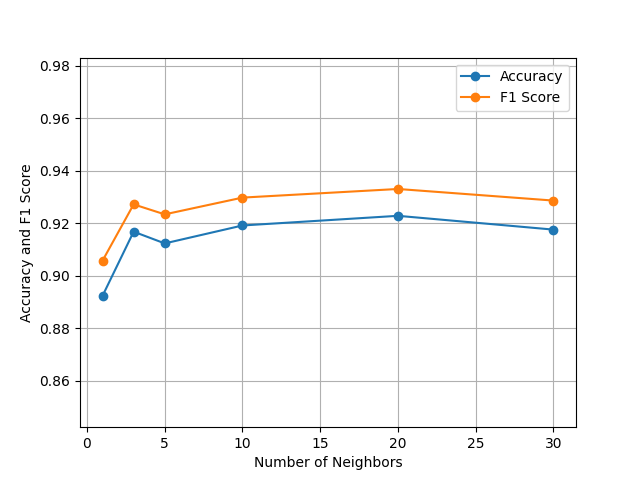
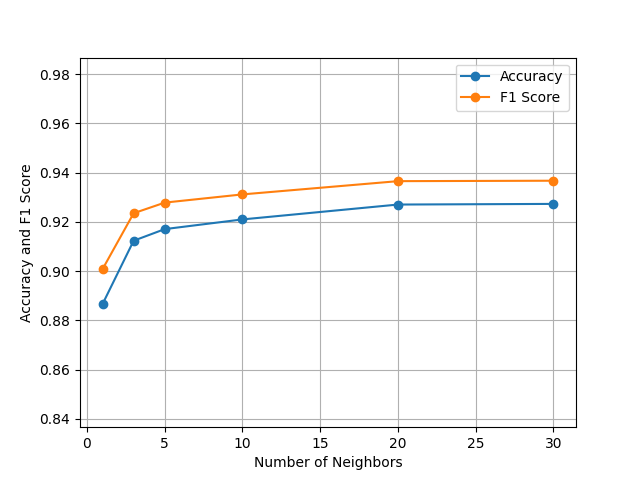
better mnist, knn fix

diff --git a/ozel/main_mnist.py b/ozel/main_mnist.py
@@ -42,6 +42,7 @@ def run_knn():
     df = pd.DataFrame(digits[0])
     df["y"] = digits[1]
     df.columns = df.columns.astype(str)
+    df = normalize_data(df)
 
     splitter = StratifiedKFold(k=10, class_column="y")
 
@@ -198,12 +199,13 @@ def run_nn():
     df["y"] = digits[1]
 
     models = [
-        NeuralNet(layers=[64, 100, 100, 100, 10], step_size=0.1, lambda_reg=0.1, epochs=30),
-        NeuralNet(layers=[64, 100, 100, 100, 100, 100, 10], step_size=0.1, lambda_reg=0.1, epochs=30),
-        NeuralNet(layers=[64, 100, 100, 100, 10], step_size=0.1, lambda_reg=0.5, epochs=30),
-        NeuralNet(layers=[64, 100, 100, 100, 10], step_size=0.1, lambda_reg=0.01, epochs=30),
-        NeuralNet(layers=[64, 100, 150, 100, 32, 10], step_size=0.1, lambda_reg=0.1, epochs=30),
-        NeuralNet(layers=[64, 200, 10], step_size=0.1, lambda_reg=0.1, epochs=30),
+        NeuralNet(layers=[64, 48, 10], step_size=0.1, lambda_reg=0.1, batch_size=50, epochs=50),
+        NeuralNet(layers=[64, 100, 10], step_size=0.1, lambda_reg=0.1, batch_size=50, epochs=50),
+        NeuralNet(layers=[64, 200, 10], step_size=0.1, lambda_reg=0.1, epochs=50),
+        NeuralNet(layers=[64, 100, 100, 10], step_size=0.1, lambda_reg=0.1, batch_size=50, epochs=50),
+        NeuralNet(layers=[64, 100, 100, 100, 100, 100, 10], step_size=0.1, lambda_reg=0.1, epochs=50),
+        NeuralNet(layers=[64, 100, 100, 10], step_size=0.1, lambda_reg=0.5, batch_size=50, epochs=50),
+        NeuralNet(layers=[64, 100, 100, 10], step_size=0.1, lambda_reg=0.9, batch_size=50, epochs=50),
     ]
 
     best_model = None
@@ -213,19 +215,22 @@ def run_nn():
     splitter = StratifiedKFold(k=10, class_column="y")
     accuracies = []
     f1_scores = []
+    best_losses = None
     t = ""
     print("NN for MNIST Dataset")
     for model in models:
         avg_accuracy = 0
         avg_f1_score = 0
-
+        
+        losses = [0 for _ in range(model.epochs)]
         for train_split, test_split in splitter.get_splits(df):
             X_train = train_split.drop(columns=["y"]).to_numpy()
             y_train = np.eye(10)[train_split["y"].to_list()]
             X_test = test_split.drop(columns=["y"]).to_numpy()
             y_test = np.eye(10)[test_split["y"].to_list()]
 
-            model.refit(X_train, y_train)
+            epoch_loss = model.refit(X_train, y_train)
+            losses = [l + e for l, e in zip(losses, epoch_loss)]
             predictions = model.predict(X_test)
             predictions = [z.reshape(-1) for z in predictions]
             pred_labels = np.argmax(predictions, axis=1)
@@ -234,6 +239,7 @@ def run_nn():
             avg_accuracy += accuracy(pred_labels, actual_labels)
             avg_f1_score += f1(pred_labels, actual_labels)
 
+        losses = [l / 10 for l in losses]
         avg_accuracy /= 10
         avg_f1_score /= 10
         print(f"\tParams: {model.model_str()}")
@@ -247,6 +253,7 @@ def run_nn():
             best_accuracy = avg_accuracy
             best_f1_score = avg_f1_score
             best_model = model
+            best_losses = losses
 
         accuracies.append(avg_accuracy)
         f1_scores.append(avg_f1_score)
@@ -261,9 +268,18 @@ def run_nn():
         f.write(f"Best Model: {best_model.model_str()}\n")
         f.write(f"Best Accuracy: {best_accuracy}\n")
         f.write(f"Best F1 Score: {best_f1_score}\n")
+    
+    plt.plot(list(range(len(best_losses))), best_losses, label="J over training epochs", marker="o")
+    plt.ylim(min(best_losses) - 0.05, max(best_losses) + 0.05)
+    plt.xlabel("Training Epochs")
+    plt.ylabel("Regularized J")
+    plt.legend()
+    plt.grid()
+    plt.savefig("ozel/figures/mnist_nn.png")
+    plt.clf()
+
 
 if __name__ == "__main__":
-    # run_nn()
+    run_nn()
     # run_rf()
-    run_knn()
-
+    # run_knn()

diff --git a/ozel/main_rice.py b/ozel/main_rice.py
@@ -83,6 +83,10 @@ def run_rf():
 def run_knn():
     # KNN for Rice Dataset
     rice_df = pd.read_csv("data/rice.csv")
+    features = rice_df.drop(columns=["label"])
+    labels = rice_df["label"]
+    features = normalize_data(features)
+    rice_df = pd.concat([features, labels.reset_index(drop=True)], axis=1)
     splitter = StratifiedKFold(k=10)
 
     hyperparams = {
@@ -106,9 +110,9 @@ def run_knn():
         avg_accuracy = 0
         avg_f1_score = 0
         for train_split, test_split in splitter.get_splits(rice_df):
-            X_train = normalize_data(train_split.drop(columns=["label"]))
+            X_train = train_split.drop(columns=["label"])
             y_train = train_split["label"]
-            X_test = normalize_data(test_split.drop(columns=["label"]))
+            X_test = test_split.drop(columns=["label"])
             y_test = test_split["label"]
 
             knn_model = KNN(k=params_dict["k"])
@@ -239,6 +243,6 @@ def run_nb():
     plt.clf()
 
 if __name__ == "__main__":
-    run_rf()
+    # run_rf()
     run_knn()
-    run_nb()
+    # run_nb()

diff --git a/ozel/main_credit.py b/ozel/main_credit.py
@@ -17,6 +17,7 @@ def run_knn():
     credit_df = transformer.fit_transform(credit_df)
     credit_df = pd.DataFrame(credit_df, columns=transformer.get_feature_names_out())
     credit_df.rename(columns={"remainder__label": "label"}, inplace=True)
+    credit_df = normalize_data(credit_df)
 
     splitter = StratifiedKFold(k=10)
     hyperparams = {
@@ -41,9 +42,9 @@ def run_knn():
         avg_f1_score = 0
 
         for train_split, test_split in splitter.get_splits(credit_df):
-            X_train = normalize_data(train_split.drop(columns=["label"]))
+            X_train = train_split.drop(columns=["label"])
             y_train = train_split["label"]
-            X_test = normalize_data(test_split.drop(columns=["label"]))
+            X_test = test_split.drop(columns=["label"])
             y_test = test_split["label"]
 
             knn_model = KNN(k=params_dict["k"])

diff --git a/ozel/main_parkinsons.py b/ozel/main_parkinsons.py
@@ -83,6 +83,7 @@ def run_rf():
 def run_knn():
     # KNN for Parkinson's Dataset
     parkinsons_df = pd.read_csv("data/parkinsons.csv")
+    parkinsons_df = normalize_data(parkinsons_df)
     splitter = StratifiedKFold(k=10, class_column="Diagnosis")
 
     hyperparams = {
@@ -106,9 +107,9 @@ def run_knn():
         avg_accuracy = 0
         avg_f1_score = 0
         for train_split, test_split in splitter.get_splits(parkinsons_df):
-            X_train = normalize_data(train_split.drop(columns=["Diagnosis"]))
+            X_train = train_split.drop(columns=["Diagnosis"])
             y_train = train_split["Diagnosis"]
-            X_test = normalize_data(test_split.drop(columns=["Diagnosis"]))
+            X_test = test_split.drop(columns=["Diagnosis"])
             y_test = test_split["Diagnosis"]
 
             knn_model = KNN(k=params_dict["k"])
